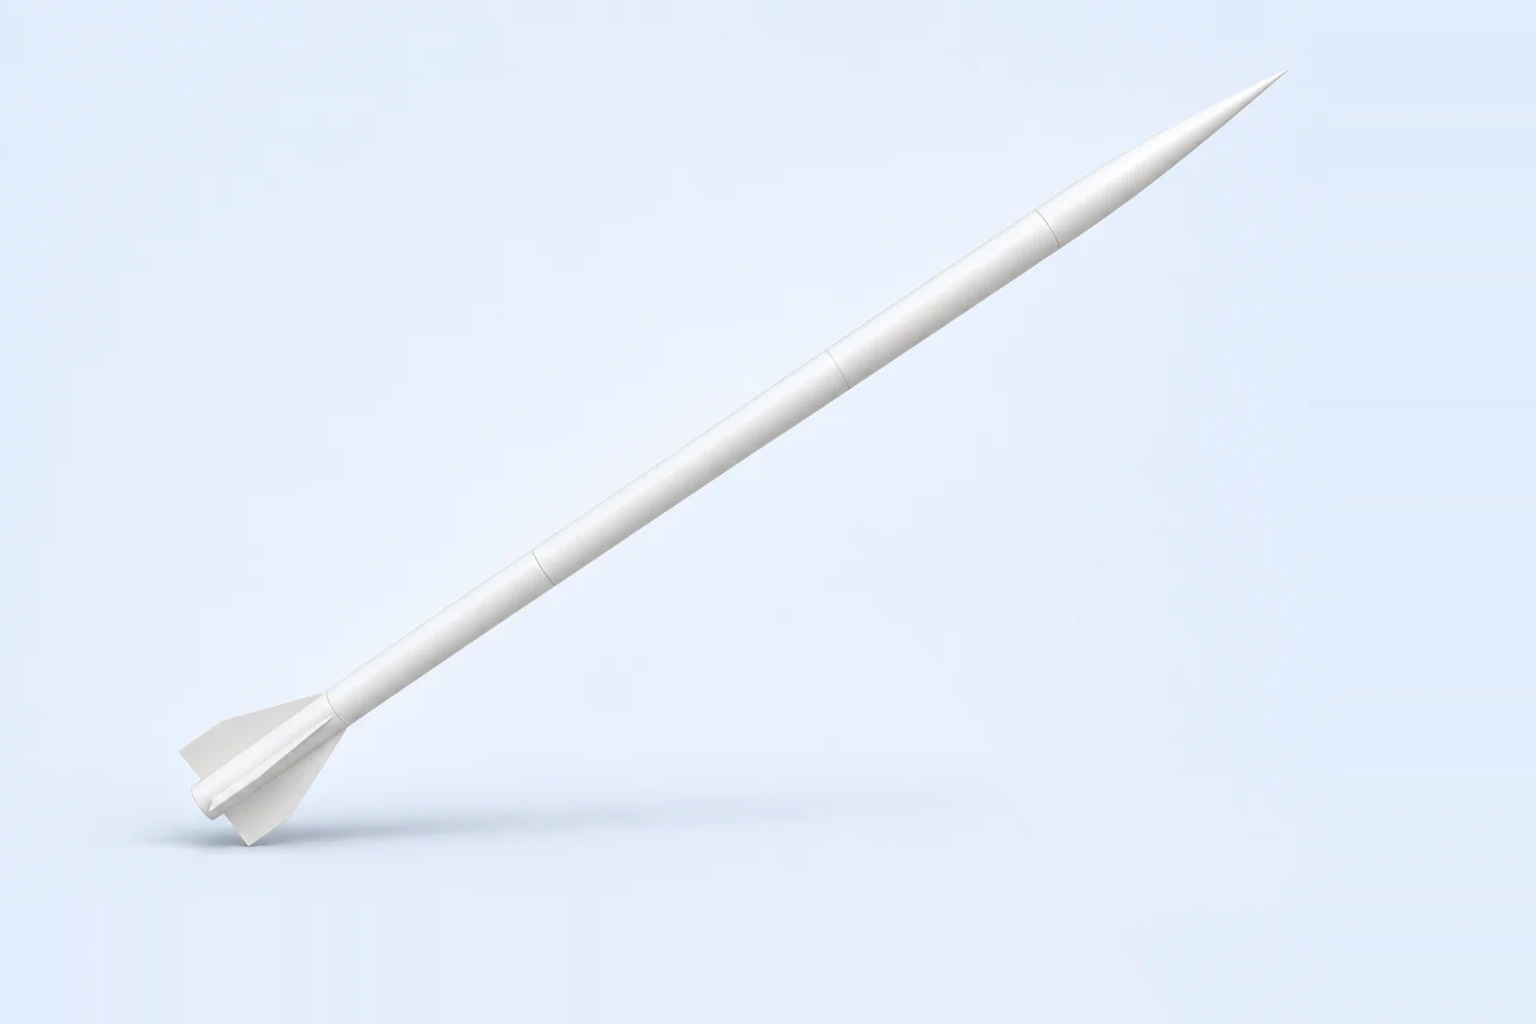
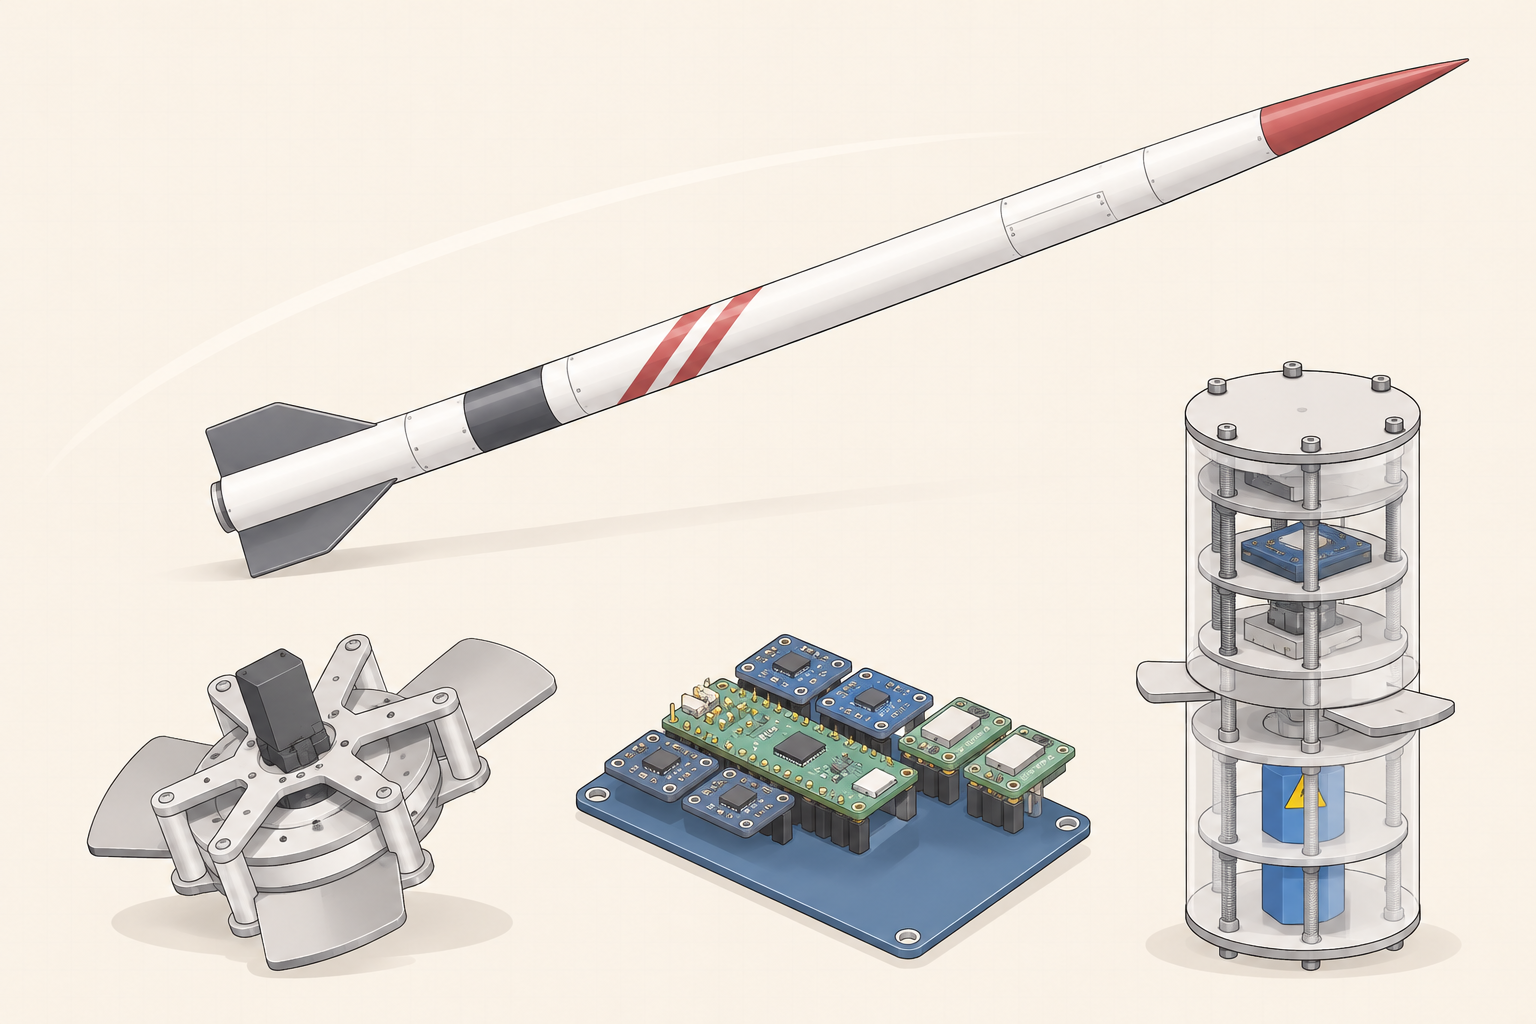
Update rocket cover illustration

diff --git a/docs/STATUS.md b/docs/STATUS.md
@@ -20,14 +20,12 @@ Documentation was committed as `1078224`. Subsequent implementation checkpoints 
 - `/resume/` preview with real resume PDF, mobile first-page fallback, Open PDF, and separate Download PDF.
 - Rocket report and poster copied intact to `public/documents/` and linked through preview pages.
 - Rocket case study separates simulations, ground tests, flights, and team contribution. Existing airbrake CAD and report evidence remain in the case study.
-- ECM uses the owner-supplied `covers/ecm.webp` concept illustration; its original SVG is preserved as a style reference. Rocket cover uses the existing complete slender rocket illustration.
+- ECM uses the owner-supplied `covers/ecm.webp` concept illustration; its original SVG is preserved as a style reference. The rocket listing uses the latest owner-replaced cover at its existing permanent path.
 - Latest verification before this documentation-only task: `npm run verify` passed Astro diagnostics, built 14 pages, checked 187 local links, required routes, drafts, all six listing illustrations, rocket evidence/document links, and resume viewer. GitHub Pages subpath check passed with temporary example variables.
 - Native Safari inspection covered desktop hero/project artwork/resume viewer and 390px Home, Projects, Resume, rocket case study, and document preview routes. All six project listing images loaded. Poster Open PDF opened Safari’s viewer. Mobile filtering and Escape/menu navigation were exercised.
 
 ## Unfinished and known limitations
 
-- **Rocket cover styling:** built-in image generation rejected two attempts. Current complete, slender, generated cover replaces the airbrake CAD on listings, but does not yet match the ECM thin-outline style. Generate a matching full-rocket concept when image generation is available. Do not reuse the detailed mechanism as its listing image.
-- Separate rocket reference attachment was unavailable during the previous work; user may need to attach it again for accurate matching.
 - IMU model differs between report and poster. Public copy intentionally does not name a model until resolved.
 - Project-specific factual gaps (individual contributions, validation, dates, and technical stacks) are listed in [CONTENT_PROFILE.md](CONTENT_PROFILE.md) and the current project entries. Do not fill by inference.
 - Full keyboard-only audit, OS reduced-motion test, and cross-browser/mobile PDF behavior: **Not verified**.
@@ -36,10 +34,9 @@ Documentation was committed as `1078224`. Subsequent implementation checkpoints 
 ## Recommended next actions
 
 1. Resolve Git checkpoint access and commit the documentation work without overwriting any files; update checkpoint references here.
-2. Generate and visually verify the complete rocket cover in the ECM technical-illustration style when the image tool accepts it.
-3. Re-run `npm run verify` and inspect all six covers on desktop and at 390px after any asset changes.
-4. Ask Shota to resolve the report/poster IMU discrepancy and clarify only the project facts needed for future copy.
-5. Perform a fuller keyboard, reduced-motion, and browser PDF review when convenient.
+2. Re-run `npm run verify` and inspect all six covers on desktop and at 390px after any asset changes.
+3. Ask Shota to resolve the report/poster IMU discrepancy and clarify only the project facts needed for future copy.
+4. Perform a fuller keyboard, reduced-motion, and browser PDF review when convenient.
 
 No deployment, publication, or remote push was performed.
 
@@ -116,6 +113,10 @@ Verification: `npm run check`, `npm run build`, and `node scripts/verify-build.m
 Moved the compact At a Glance summary to the upper-right of the About introduction, above the profile card. The heading keeps its exact wording and line break with a powder-blue marker reveal. The native expandable panel previews education, experience, and engineering focus, then reveals four concise groups. The biography and existing profile card remain paired in the second row on desktop; tablet and mobile stack heading, summary, biography, and card. Removed the old bottom disclosure while retaining `BentoGrid.astro`.
 
 Verification: `npm run verify` passed with zero Astro diagnostics, 14 generated pages, and 198 checked local links. Built About markup confirms the new panel and existing section anchors; a local preview response served the new content. Browser automation was unavailable, so requested viewport screenshots, 200% zoom, and manual interaction checks remain unverified. These edits are local and uncommitted; no push or deployment was performed.
+
+## Rocket cover replacement — 2026-11-11
+
+The owner replaced the rocket cover at its existing path, `public/images/projects/covers/rocket.webp`; project metadata and listing references remain unchanged. The replacement was saved as PNG bytes with a `.webp` extension, so it was converted to lossless WebP at the same path. Decoded pixels were hash-checked before and after conversion; the file is now about 1.0 MB instead of 1.7 MB. Visual inspection confirms the new warm-neutral illustration is present.
 
 ## Motion, color, and navigation refinement — 2026-11-11
 

diff --git a/docs/ASSETS.md b/docs/ASSETS.md
@@ -6,7 +6,7 @@ All live website dependencies must use repository paths under `public/`. Do not 
 
 Homepage and Projects cards use `illustration` in each project Markdown entry. The component labels these images “concept illustration”. These images are representative artwork, never documentary evidence.
 
-- Rocket: `public/images/projects/covers/rocket.webp` — generated full slender rocket concept with pointed nose and aft fins. It does not yet match the ECM line-art style; see STATUS.
+- Rocket: `public/images/projects/covers/rocket.webp` — latest owner-replaced rocket cover illustration, showing the full vehicle with avionics and airbrake hardware on a warm neutral background. The permanent `.webp` path remains active for Home and Projects cards.
 - Environmental chamber: `public/images/projects/covers/chamber-spools.webp` — generated enclosure and monitor concept.
 - Face-tracking gimbal: `public/images/projects/covers/face-tracking-laser-gimbal-cover-v2.png` — owner-supplied red camera-gimbal concept illustration. The baked caption and arrow were removed from the repository copy so the card's HTML controls remain the only caption and arrow.
 - Mini Pupper: `public/images/projects/covers/autonomous-mini-pupper-cover-v2.png` — owner-supplied yellow quadruped concept illustration. The baked caption and arrow were removed from the repository copy so the card's HTML controls remain the only caption and arrow.
